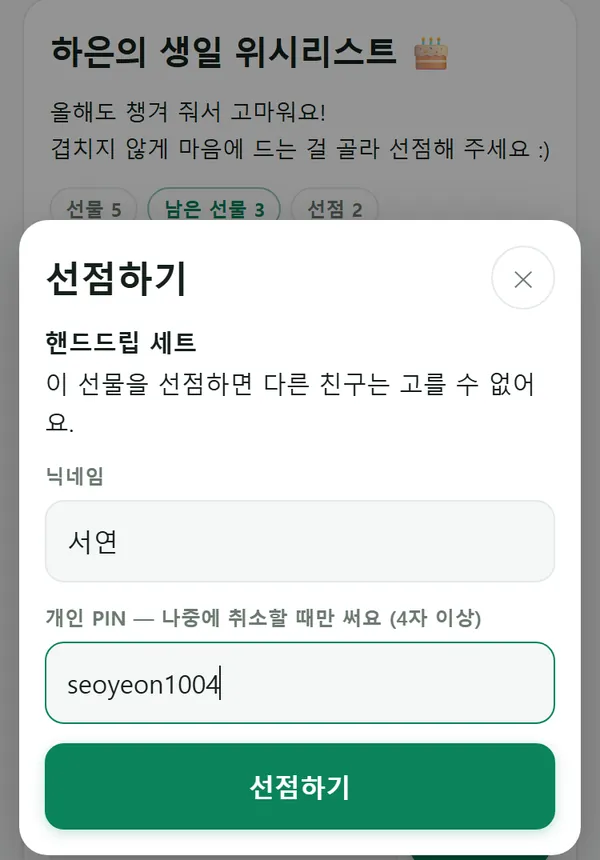
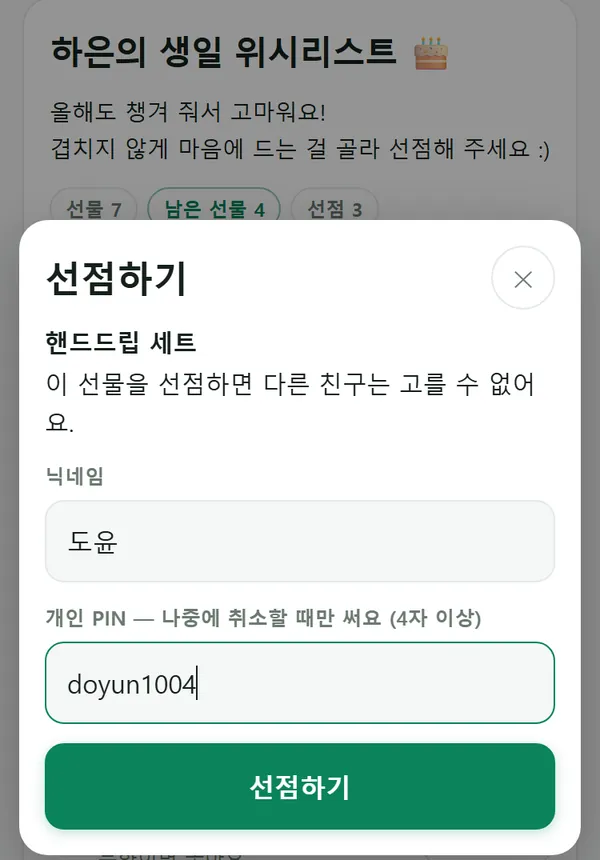
선물을 한 줄씩 목록으로, 주인 버튼은 ⋯ 하나, 관리 ↔ 친구 화면 미리보기, 소개 글 300자(더 보기 없앰), 두 브라우저 검토 반영: 선점 칩 ✕·창 열린 사이 남이 선점하면 바로 알림·취소 창 문구·잠금 화면 주소, 샘플 다시 찍음 (2026-10-08a)

diff --git a/index.html b/index.html
@@ -30,30 +30,31 @@
 .pk1.on::after{content:" ·  지금 보는 리스트"}
 .wl-head h2{font-size:21px;letter-spacing:-.03em;margin:0}
 .wl-sub{white-space:pre-wrap;color:var(--ink);font-size:14px;line-height:1.65;margin:10px 0 0}
-.wl-sub.fold{max-height:7.2em;overflow:hidden;-webkit-mask-image:linear-gradient(#000 60%,transparent);mask-image:linear-gradient(#000 60%,transparent)}
-.wl-more{appearance:none;border:0;background:transparent;font:inherit;font-size:12.5px;font-weight:700;color:var(--accent);padding:4px 0;cursor:pointer}
 .wl-stat{display:flex;gap:6px;flex-wrap:wrap;margin:12px 0 0}
 .wl-stat span{font-size:12px;font-weight:700;padding:3px 9px;border-radius:999px;border:1px solid var(--line);color:var(--muted);background:var(--card)}
 .wl-stat span.left{color:var(--accent);border-color:rgba(var(--accent-rgb),.45)}
 .ownerbar{display:flex;align-items:center;gap:8px;margin:12px 0 0;padding:8px 10px;border-radius:12px;background:rgba(var(--accent-rgb),.08);font-size:12.5px;font-weight:700;color:var(--accent)}
-.gift{position:relative}
-.gift .gnum{font-size:11.5px;font-weight:800;color:var(--muted);letter-spacing:.02em}
-.gift .gnum .ex{margin-left:6px;font-size:11px;color:#8a6d1f;background:rgba(138,109,31,.12);border-radius:999px;padding:1px 7px}
-.gift h3{font-size:16.5px;font-weight:800;letter-spacing:-.02em;margin:3px 0 0;line-height:1.35;word-break:keep-all;overflow-wrap:anywhere}
-.gift .gnote{color:var(--muted);font-size:13.5px;margin:3px 0 0;white-space:pre-wrap}
-.gift .glink{display:inline-flex;align-items:center;gap:4px;margin:8px 0 0;font-size:13px;font-weight:700;color:var(--accent);text-decoration:none;
-  border:1px solid rgba(var(--accent-rgb),.35);border-radius:999px;padding:4px 11px;max-width:100%;overflow:hidden;text-overflow:ellipsis;white-space:nowrap}
-.gift .gact{display:flex;gap:7px;align-items:center;margin:12px 0 0}
-.gift .gact input{flex:1 1 auto;min-width:0}
-.gift .gact .btn{flex:0 0 auto}
-.gift.claimed{background:var(--soft)}
-.gift.claimed h3{color:var(--muted)}
-.gift .gtaken{display:flex;align-items:center;gap:8px;margin:12px 0 0;font-size:13.5px}
-.gift .gtaken b{color:var(--accent)}
-.gift .gtaken .btn{margin-left:auto}
-.gift .gown{display:flex;gap:6px;flex-wrap:wrap;margin:12px 0 0;padding-top:10px;border-top:1px dashed var(--line)}
-.gift .gown .btn{min-height:34px;padding:0 11px;font-size:12.5px}
-.gift .gown .grow{flex:1 1 auto}
+/* 선물 = 한 줄씩 (2026-10-07 Benny: "한눈에 안 들어와, 한 줄로 쭉") — 번호 · 이름/메모 · 🔗 · 오른쪽 버튼 */
+.glist{padding:4px 0}
+.grow{display:flex;align-items:center;gap:10px;padding:11px 14px;border-bottom:1px solid var(--line)}
+.grow:last-child{border-bottom:0}
+.grow .gno{flex:0 0 22px;font-size:12px;font-weight:800;color:var(--muted);text-align:right;font-variant-numeric:tabular-nums}
+.grow .gmain{flex:1 1 auto;min-width:0}
+.grow .gname{font-size:15px;font-weight:800;letter-spacing:-.02em;line-height:1.35;word-break:keep-all;overflow-wrap:anywhere}
+.grow .gname .ex{margin-left:6px;font-size:10.5px;font-weight:700;color:#8a6d1f;background:rgba(138,109,31,.12);border-radius:999px;padding:1px 6px;vertical-align:2px}
+.grow .gnote{display:block;font-size:12.5px;color:var(--muted);margin-top:1px;white-space:nowrap;overflow:hidden;text-overflow:ellipsis}
+.grow .gby{display:block;font-size:12.5px;color:var(--accent);font-weight:700;margin-top:1px}
+.grow .glk{flex:0 0 auto;width:34px;height:34px;display:inline-flex;align-items:center;justify-content:center;border-radius:10px;
+  border:1px solid rgba(var(--accent-rgb),.35);text-decoration:none;font-size:15px}
+.grow .gbtn{flex:0 0 auto;min-height:36px;padding:0 13px;font-size:13px}
+.grow .gtk{flex:0 0 auto;appearance:none;border:1px solid var(--line);background:var(--card);font:inherit;font-size:12.5px;font-weight:700;color:var(--muted);
+  padding:0 10px;min-height:36px;border-radius:999px;cursor:pointer;max-width:120px;white-space:nowrap;overflow:hidden;text-overflow:ellipsis}
+.grow .gtk .x{margin-left:4px;color:var(--warn)}
+.grow.taken .gname{color:var(--muted);text-decoration:line-through;text-decoration-color:rgba(0,0,0,.25)}
+.grow .gmore{flex:0 0 auto;width:36px;min-height:36px;padding:0;font-size:16px}
+/* 관리 ↔ 친구 화면 */
+.ownerbar .obtn{margin-left:auto;flex:0 0 auto}
+.ownerbar.preview{background:rgba(0,0,0,.05);color:var(--ink)}
 .addbtn{width:100%;margin:0 0 12px}
 </style>
 </head>
@@ -113,9 +114,10 @@
   <div class="card wl-head">
     <h2 id="wlHeading"></h2>
     <p class="wl-sub" id="wlSub"></p>
-    <button class="wl-more" id="wlMore" type="button" hidden>더 보기 ▾</button>
     <div class="wl-stat" id="wlStat"></div>
-    <div class="ownerbar" id="ownerBar" hidden>🔑 주인으로 보는 중 — 선물을 고칠 수 있어요</div>
+    <!-- 주인은 관리 화면 ↔ 친구 화면 미리보기 (2026-10-07 Benny) -->
+    <div class="ownerbar" id="ownerBar" hidden><span id="obText">🔑 관리 화면</span>
+      <button class="btn sm obtn" id="obToggle" type="button">👀 친구 화면으로 보기</button></div>
     <div class="sheettools" id="ownerTools" hidden>
       <button class="btn soft" id="shareBtn" type="button">🔗 친구에게 공유</button>
       <button class="btn" id="setBtn" type="button">⚙ 리스트 설정</button>
@@ -187,6 +189,23 @@
     <button class="btn primary wide" id="i_save" type="button">저장</button>
   </div>
 </div>
+<!-- ══════════ 선물 하나 — 주인 버튼 모음 ══════════ -->
+<div class="modal" id="actModal" hidden>
+  <div class="sheet" role="dialog" aria-modal="true" style="max-width:400px">
+    <div class="spread">
+      <h2 style="margin:0;font-size:17px" id="actTitle"></h2>
+      <button class="iconbtn" type="button" data-close aria-label="닫기">✕</button>
+    </div>
+    <p class="hint" style="margin:4px 0 12px" id="actSub"></p>
+    <div class="row" style="gap:8px;flex-wrap:wrap">
+      <button class="btn" id="actEdit" type="button">✎ 수정</button>
+      <button class="btn" id="actUp" type="button">↑ 위로</button>
+      <button class="btn" id="actDown" type="button">↓ 아래로</button>
+      <button class="btn" id="actRelease" type="button">선점 해제</button>
+      <button class="btn ghost danger" id="actDel" type="button">삭제</button>
+    </div>
+  </div>
+</div>
 <!-- ══════════ 선점 · 취소 (친구) ══════════ -->
 <div class="modal" id="claimModal" hidden>
   <div class="sheet" role="dialog" aria-modal="true" style="max-width:420px">
@@ -212,7 +231,7 @@
     </div>
     <label class="fld"><span>리스트 이름 — 목록에 보여요</span><input type="text" id="s_name" maxlength="20"></label>
     <label class="fld"><span>제목 — 친구들이 보는 맨 위 큰 글씨</span><input type="text" id="s_heading" maxlength="40"></label>
-    <label class="fld"><span>소개 글 (선택)</span><textarea id="s_sub" maxlength="1000" rows="5"></textarea></label>
+    <label class="fld"><span>소개 글 (선택) — 300자까지</span><textarea id="s_sub" maxlength="300" rows="5"></textarea></label>
     <button class="btn primary wide" id="s_save" type="button">저장</button>
     <div class="fld" style="margin-top:18px"><span id="s_pinLbl">PIN</span>
       <div class="row nowrap"><input type="text" id="s_pin" inputmode="numeric" maxlength="8" autocomplete="off" placeholder="새 PIN (비우면 해제)" style="flex:1 1 auto">
@@ -238,7 +257,7 @@
      wishView/{v}            친구 화면(제목·소개·순서). v = 무작위 — 링크로만
        /items/{iid}          선물. 친구는 선점(닉네임+개인 PIN)·취소(개인 PIN)만
    개인 PIN: u = sha256(PIN) 을 취소할 때 보내고, 선점 때는 sha256(u) 만 남긴다 → 규칙이 sha256(u) 를 대조 */
-const BUILD = "2026-10-07a";
+const BUILD = "2026-10-08a";
 
 /* ── 작은 도구 ── */
 function ls(k, v){ try { if (v === undefined) return localStorage.getItem(k) || ""; v ? localStorage.setItem(k, v) : localStorage.removeItem(k); } catch(e){ return ""; } }
@@ -256,7 +275,8 @@ let LISTS = [], listsReady = false;          // 목록
 let WID = "", KEY = "", VID = "";            // 지금 리스트 · 주인 열쇠(있으면 주인) · 친구 화면 id
 let VIEW = null, ITEMS = [], unsub = [];
 let opening = false;                         // 링크·목록에서 여는 중 — 처음 화면이 잠깐 비치지 않게
-const owner = () => !!KEY;
+let asFriend = false;                        // 주인이 친구 화면으로 미리보는 중
+const owner = () => !!KEY && !asFriend;      // 관리 버튼을 보일지
 const listOf = id => LISTS.find(x => x.id === id) || null;
 
 /* 이 기기에서 연 리스트 — 열쇠(K)·친구 화면(v) 를 기억 */
@@ -317,7 +337,7 @@ function renderPick(){
 }
 
 /* ═══ 열기 ═══ */
-function closeList(){ unsub.forEach(f => { try { f(); } catch(e){} }); unsub = []; WID = ""; KEY = ""; VID = ""; VIEW = null; ITEMS = []; }
+function closeList(){ asFriend = false; unsub.forEach(f => { try { f(); } catch(e){} }); unsub = []; WID = ""; KEY = ""; VID = ""; VIEW = null; ITEMS = []; }
 function setUrl(){
   const q = VID && !owner() ? "?v=" + VID : (WID ? "?w=" + WID : "");
   try { history.replaceState(history.state, "", location.pathname + q); } catch(e){}
@@ -367,7 +387,8 @@ function watchView(v, wid, k){
   renderAll();
 }
 function showLock(b, msg){
-  $("#lockName").textContent = (b.locked ? "🔒 " : "") + b.name;
+  $("#lockName").textContent = b.name;
+  try { history.replaceState(history.state, "", location.pathname + "?w=" + b.id); } catch(e){}
   $("#lockHint").textContent = msg || "주인만 들어갈 수 있어요. 친구는 주인이 보낸 링크로 들어와요.";
   $("#lockHint").style.color = msg ? "var(--warn)" : "";
   $("#lockPin").value = "";
@@ -401,57 +422,79 @@ function renderAll(){
   $("#wlHeading").textContent = VIEW.heading || (b && b.name) || "위시리스트";
   const sub = VIEW.subheading || "";
   $("#wlSub").textContent = sub; $("#wlSub").hidden = !sub;
-  const long = sub.split("\n").length > 5 || sub.length > 220;
-  if (!$("#wlSub").dataset.open) $("#wlSub").classList.toggle("fold", long);
-  $("#wlMore").hidden = !long || !!$("#wlSub").dataset.open;
   const list = ordered(), taken = list.filter(x => x.claimedBy).length;
   const st = $("#wlStat"); st.innerHTML = "";
   st.append(el("span", "", "선물 " + list.length), el("span", "left", "남은 선물 " + (list.length - taken)), el("span", "", "선점 " + taken));
-  $("#ownerBar").hidden = $("#ownerTools").hidden = $("#addBtn").hidden = !owner();
+  $("#ownerBar").hidden = !KEY;
+  $("#ownerBar").classList.toggle("preview", asFriend);
+  $("#obText").textContent = asFriend ? "👀 친구 화면 미리보기" : "🔑 관리 화면";
+  $("#obToggle").textContent = asFriend ? "🔑 관리 화면으로" : "👀 친구 화면으로 보기";
+  $("#ownerTools").hidden = $("#addBtn").hidden = !owner();
   const ex = list.filter(x => x.example).length;
   $("#exClear").hidden = !owner() || !ex;
   $("#exClear").textContent = "예시 선물 " + ex + "개 지우기";
   renderGifts(list);
+  checkClaimRace();
+}
+/** 선점 창이 열린 사이에 다른 친구가 먼저 선점하면 바로 알려 준다 */
+function checkClaimRace(){
+  if ($("#claimModal").hidden || !clItem || clMode !== "claim") return;
+  const now = ITEMS.find(x => x.id === clItem.id);
+  if (!now) { clErr("이 선물이 방금 지워졌어요"); $("#cl_go").disabled = true; return; }
+  if (now.claimedBy){ clErr("방금 " + now.claimedBy + " 님이 선점했어요. 다른 선물을 골라주세요"); $("#cl_go").disabled = true; }
 }
 function renderGifts(list){
   const box = $("#gifts"); box.innerHTML = "";
   if (!list.length){ box.appendChild(el("div", "card empty", owner() ? "아직 선물이 없어요. 위의 ＋ 선물 추가로 넣어 보세요." : "아직 선물이 없어요.")); return; }
-  list.forEach((it, i) => box.appendChild(giftCard(it, i, list)));
+  const card = el("div", "card glist");
+  list.forEach((it, i) => card.appendChild(giftRow(it, i)));
+  box.appendChild(card);
 }
-function giftCard(it, i, list){
-  const c = el("div", "card gift" + (it.claimedBy ? " claimed" : ""));
-  const num = el("div", "gnum", "No." + (i + 1));
-  if (it.example) num.appendChild(el("span", "ex", "예시"));
-  c.append(num, el("h3", "", it.name));
-  if (it.note) c.appendChild(el("p", "gnote", it.note));
+/** 선물 한 줄 — 번호 · 이름(+메모) · 🔗 · [선점] 또는 '🎁 닉네임'(누르면 취소) · 주인은 [⋯] */
+function giftRow(it, i){
+  const r = el("div", "grow" + (it.claimedBy ? " taken" : ""));
+  r.appendChild(el("span", "gno", String(i + 1)));
+  const m = el("div", "gmain");
+  const nm = el("div", "gname", it.name);
+  if (it.example) nm.appendChild(el("span", "ex", "예시"));
+  m.appendChild(nm);
+  if (it.note) m.appendChild(el("span", "gnote", it.note));
+  if (it.claimedBy && owner()) m.appendChild(el("span", "gby", "🎁 " + it.claimedBy + " 님 선점"));
+  r.appendChild(m);
   const href = safeLink(it.link);
-  if (href){ const a = el("a", "glink", "🔗 " + linkLabel(href)); a.href = href; a.target = "_blank"; a.rel = "noopener"; c.appendChild(a); }
-  if (it.claimedBy){
-    const t = el("div", "gtaken");
-    t.append("🎁 ", el("b", "", it.claimedBy), " 님이 선점했어요");
-    const x = el("button", "btn sm", "선점 취소"); x.type = "button"; x.onclick = () => openClaim(it, "unclaim");
-    t.appendChild(x); c.appendChild(t);
-  } else {
-    const a = el("div", "gact");
-    const inp = el("input"); inp.type = "text"; inp.maxLength = 12; inp.placeholder = "내 닉네임"; inp.setAttribute("aria-label", it.name + " 선점할 닉네임");
-    const go = el("button", "btn primary", "선점하기"); go.type = "button";
-    go.onclick = () => openClaim(it, "claim", inp.value);
-    inp.addEventListener("keydown", e => { if (e.key === "Enter" && !e.isComposing){ e.preventDefault(); go.click(); } });
-    a.append(inp, go); c.appendChild(a);
-  }
+  if (href){ const a = el("a", "glk", "🔗"); a.href = href; a.target = "_blank"; a.rel = "noopener"; a.title = linkLabel(href); a.setAttribute("aria-label", it.name + " 링크 — " + linkLabel(href)); r.appendChild(a); }
   if (owner()){
-    const o = el("div", "gown");
-    const btn = (t, fn, cls) => { const b = el("button", "btn" + (cls ? " " + cls : ""), t); b.type = "button"; b.onclick = fn; o.appendChild(b); return b; };
-    btn("✎ 수정", () => openItem(it));
-    btn("↑", () => moveItem(it.id, -1)).disabled = i === 0;
-    btn("↓", () => moveItem(it.id, 1)).disabled = i === list.length - 1;
-    o.appendChild(el("span", "grow"));
-    if (it.claimedBy) btn("선점 해제", () => ownerRelease(it));
-    btn("삭제", () => deleteItem(it), "ghost danger");
-    c.appendChild(o);
+    const b = el("button", "btn gmore", "⋯"); b.type = "button"; b.setAttribute("aria-label", it.name + " 고치기");
+    b.onclick = () => openAct(it, i); r.appendChild(b);
+  } else if (it.claimedBy){
+    /* 선점한 친구 이름 칩 — 누르면 취소(개인 PIN). ✕ 로 누를 수 있다는 걸 보인다 (2026-10-08 검토) */
+    const t = el("button", "gtk", "🎁 " + it.claimedBy); t.type = "button"; t.title = it.claimedBy + " 님 선점 — 누르면 취소";
+    t.appendChild(el("span", "x", "✕")); t.onclick = () => openClaim(it, "unclaim");
+    r.appendChild(t);
+  } else {
+    const g = el("button", "btn primary gbtn", "선점"); g.type = "button"; g.onclick = () => openClaim(it, "claim");
+    r.appendChild(g);
   }
-  return c;
+  return r;
 }
+/* 주인 '⋯' — 수정 · 순서 · 선점 해제 · 삭제 */
+let actItem = null;
+function openAct(it, i){
+  actItem = it;
+  const n = ordered().length;
+  $("#actTitle").textContent = it.name;
+  $("#actSub").textContent = it.claimedBy ? "🎁 " + it.claimedBy + " 님이 선점했어요" : "아직 선점 안 됨";
+  $("#actUp").disabled = i === 0; $("#actDown").disabled = i === n - 1;
+  $("#actRelease").hidden = !it.claimedBy;
+  openModal("actModal");
+}
+const actThen = fn => () => { const it = actItem; closeModal("actModal"); if (it) afterNav(() => fn(it)); };
+$("#actEdit").onclick = actThen(it => openItem(it));
+$("#actUp").onclick = actThen(it => moveItem(it.id, -1));
+$("#actDown").onclick = actThen(it => moveItem(it.id, 1));
+$("#actRelease").onclick = actThen(it => ownerRelease(it));
+$("#actDel").onclick = actThen(it => deleteItem(it));
+$("#obToggle").onclick = () => { asFriend = !asFriend; renderAll(); window.scrollTo({ top: 0, behavior: "smooth" }); };
 
 /* ═══ 친구 — 선점 · 취소 ═══ */
 let clItem = null, clMode = "claim";
@@ -463,6 +506,8 @@ function openClaim(it, mode, nick){
   $("#clNickFld").hidden = mode !== "claim";
   $("#cl_nick").value = (nick || "").trim();
   $("#cl_pin").value = "";
+  $("#cl_pin").placeholder = mode === "claim" ? "까먹지 않을 걸로" : "선점할 때 정한 개인 PIN";
+  $("#cl_go").disabled = false;
   $("#clPinLbl").textContent = mode === "claim" ? "개인 PIN — 나중에 취소할 때만 써요 (4자 이상)" : "개인 PIN";
   $("#clMsg").hidden = true;
   $("#cl_go").textContent = mode === "claim" ? "선점하기" : "선점 취소하기";
@@ -550,7 +595,6 @@ $("#exClear").onclick = () => {
     await ownerBatch((b2, op) => b2.update(C("wishView").doc(VID), { order: ordered().map(x => x.id).filter(x => !ex.some(e => e.id === x)), updatedAt: TSV(), op }));
   })(), "예시를 지웠어요");
 };
-$("#wlMore").onclick = () => { $("#wlSub").dataset.open = "1"; $("#wlSub").classList.remove("fold"); $("#wlMore").hidden = true; };
 
 /* 공유 — 친구용 링크 한 줄 (약속 잡자·밴드매니저와 같은 모양) */
 $("#shareBtn").onclick = () => {
@@ -618,8 +662,8 @@ $("#s_delete").onclick = async () => {
 
 /* ═══ 새 리스트 ═══ */
 const EXAMPLES = [
-  { name: "예시) 따뜻한 목도리", note: "회색이나 베이지면 좋아요", link: "" },
-  { name: "예시) 요즘 읽고 싶은 책", note: "아무 소설이나 추천해 주세요", link: "" }
+  { name: "따뜻한 목도리", note: "회색이나 베이지면 좋아요", link: "" },
+  { name: "요즘 읽고 싶은 책", note: "아무 소설이나 추천해 주세요", link: "" }
 ];
 $("#n_make").onclick = async () => {
   const name = $("#n_name").value.trim(), pin = $("#n_pin").value.trim();
